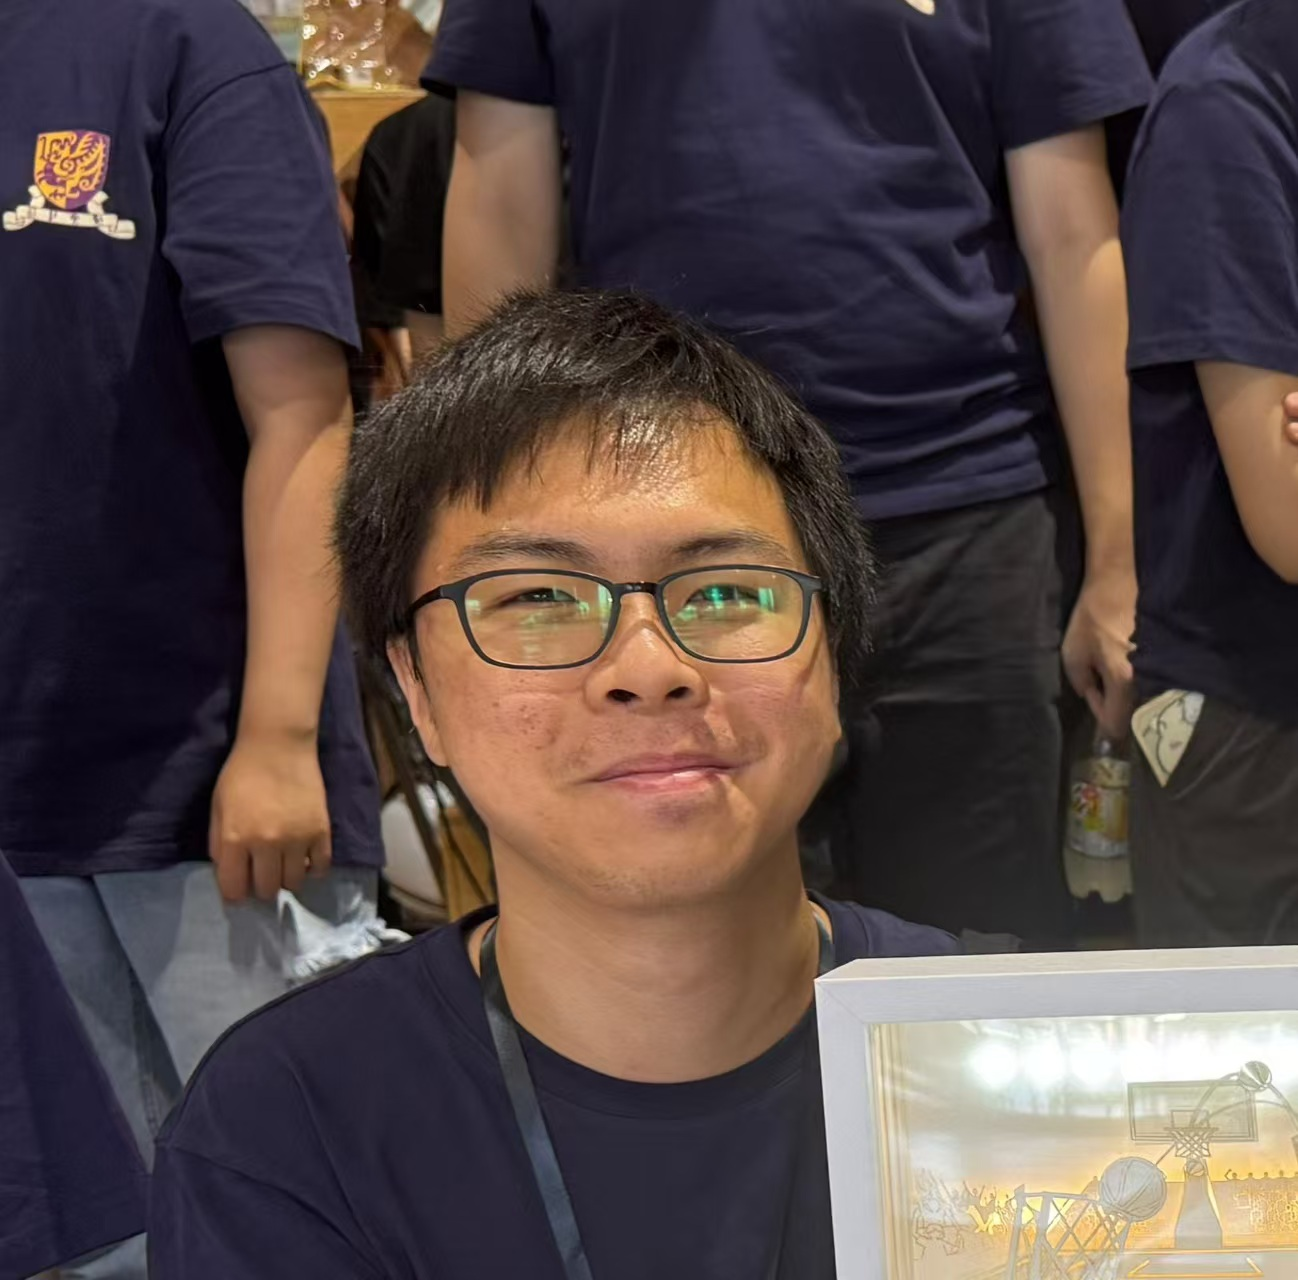
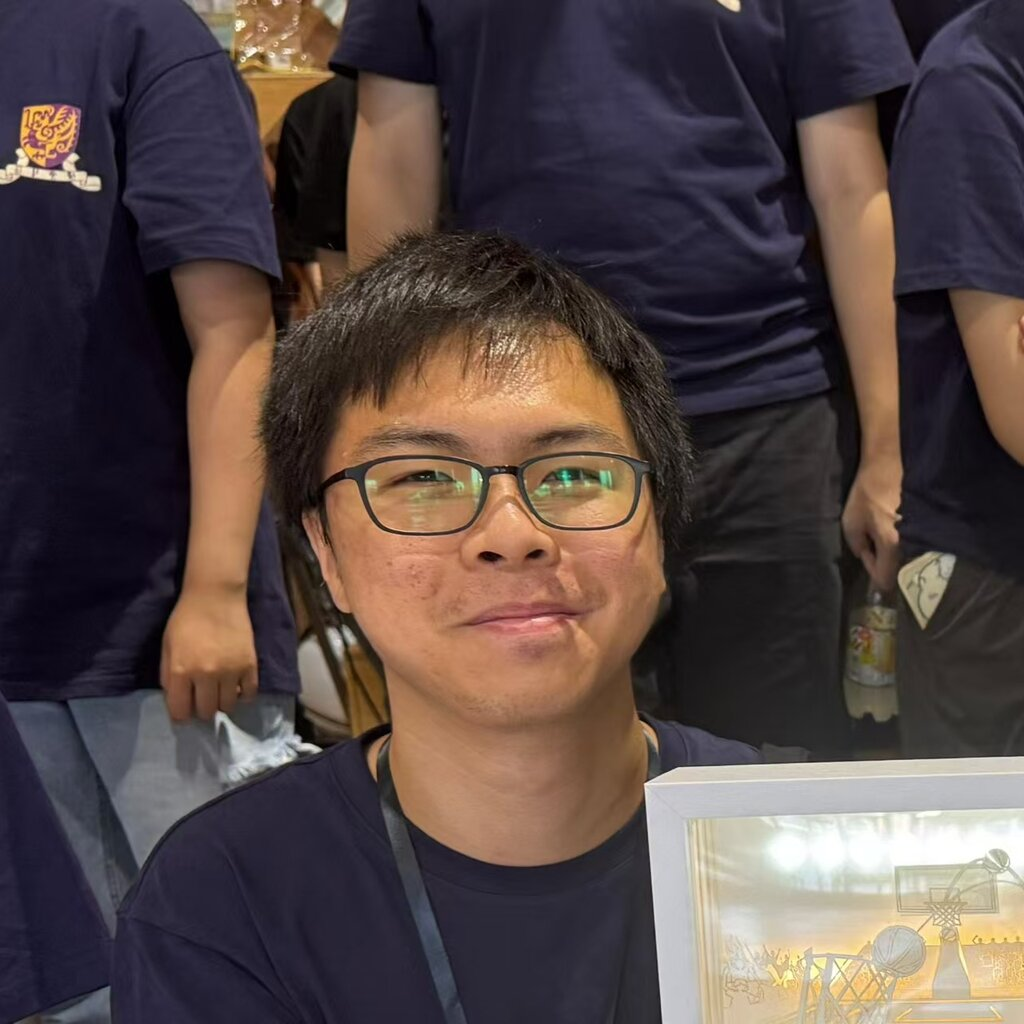
content: normalise the member portraits to one size, colour and format
- bring all fifteen portraits to 1024x1024, from fifteen different sizes
  between 384x384 and 4928x4928, and to sRGB, from a mix of Display P3,
  Adobe RGB, untagged and sRGB. The set drops from 7.9 MB to 1.8 MB
- convert the three PNG portraits to JPEG: a photograph stored as PNG was
  654 KB where its JPEG is 91 KB
- strip the HDR gain map from Zhewei Zhang's portrait, an UltraHDR capture
  whose appended gain map made it render brighter than every neighbour.
  Truncating at the base image's MPImageLength removes it without re-encoding
  a single pixel, saving 570 KB
- re-point the three changed src attributes in people.html, and drop the
  superseded WeifanZhang.png, YunxiTang.png, ZheweiZhang.png and
  ZixingJiang4.jpg
- add scripts/strip-hdr.sh and scripts/normalize-avatars.sh. Both read the
  avatar set from people.html, keep originals in .backups/ (gitignored) and
  skip work already done, so re-running them is safe

diff --git a/people.html b/people.html
@@ -82,7 +82,7 @@
                     </div>
                 </div>
                 <div class="person">
-                    <img src="people/YunxiTang.png" alt="Yunxi Tang">
+                    <img src="people/YunxiTang.jpg" alt="Yunxi Tang">
                     <p class="person-name">Yunxi Tang</p>
                     <p class="person-role">Postdoc</p>
                     <div class="person-links">
@@ -143,7 +143,7 @@
                     </div>
                 </div>
                 <div class="person">
-                    <img src="people/ZixingJiang4.jpg" alt="Zixing Jiang">
+                    <img src="people/ZixingJiang.jpg" alt="Zixing Jiang">
                     <p class="person-name">Zixing Jiang</p>
                     <p class="person-role">Ph.D. (Fall 2026)</p>
                     <div class="person-links">
@@ -173,7 +173,7 @@
                     <p class="person-role">M.Phil. (Fall 2025)</p>
                 </div>
                 <div class="person">
-                    <img src="people/placeholder/student_placeholder.png" alt="Yiguo Fan">
+                    <img src="people/YiguoFan.jpg" alt="Yiguo Fan">
                     <p class="person-name">Yiguo Fan</p>
                     <p class="person-role">M.Phil. (Spring 2026)</p>
                 </div>
@@ -194,7 +194,7 @@
                     </div>
                 </div>
                 <div class="person">
-                    <img src="people/ZheweiZhang.png" alt="Zhewei Zhang">
+                    <img src="people/ZheweiZhang.jpg" alt="Zhewei Zhang">
                     <p class="person-name">Zhewei Zhang</p>
                     <p class="person-role">Research Assistant</p>
                 </div>
